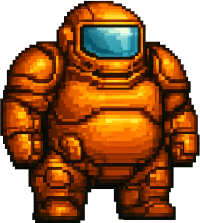
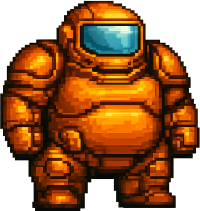
Now its ok propably. Armor size

diff --git a/index.html b/index.html
@@ -3574,11 +3574,49 @@
                     c.scale(breath, breath);
                     c.translate(-pw / 2, -ph / 2);
 
-                    c.drawImage(currentImg, 0, 0, pw, ph);
+                    // Korekta proporcji dla Pomarańczowej Zbroi (200x223)
+                    if (currentImg === imgPomaranczowaZbroja) { // 200x211
+                        drawH = pw * (211 / 200);
+                        drawY = ph - drawH; // Wyrównaj do dołu
+                    } else if (currentImg === imgPancerzNiebieski) { // 200x215
+                        drawH = pw * (215 / 200);
+                        drawY = ph - drawH;
+                    } else if (currentImg === imgPancerzZielony) { // 175x183
+                        drawH = pw * (183 / 175);
+                        drawY = ph - drawH;
+                    } else if (currentImg === imgBohater) { // 127x129
+                        drawH = pw * (129 / 127);
+                        drawY = ph - drawH;
+                    }
+
+                    c.drawImage(currentImg, 0, drawY, pw, drawH);
                 } else {
                     c.translate(px + pw / 2, py + ph / 2);
                     c.scale(breath, breath);
-                    c.drawImage(currentImg, -pw / 2, -ph / 2, pw, ph);
+
+                    // Obliczanie proporcji w zależności od grafiki
+                    let drawH = ph;
+                    let drawY = -ph / 2;
+
+                    if (currentImg === imgPomaranczowaZbroja) { // 200x211
+                        drawH = pw * (211 / 200);
+                        // Standardowy środek to 0,0 (przed translate do rogu).
+                        // Po translate do środka: góra = -ph/2, dół = ph/2.
+                        // Chcemy, aby dół nowej grafiki (Y + H) = ph/2.
+                        // Y = ph/2 - H.
+                        drawY = (ph / 2) - drawH;
+                    } else if (currentImg === imgPancerzNiebieski) { // 200x215
+                        drawH = pw * (215 / 200);
+                        drawY = (ph / 2) - drawH;
+                    } else if (currentImg === imgPancerzZielony) { // 175x183
+                        drawH = pw * (183 / 175);
+                        drawY = (ph / 2) - drawH;
+                    } else if (currentImg === imgBohater) { // 127x129
+                        drawH = pw * (129 / 127);
+                        drawY = (ph / 2) - drawH;
+                    }
+
+                    c.drawImage(currentImg, -pw / 2, drawY, pw, drawH);
                 }
                 c.restore();
                 return;
